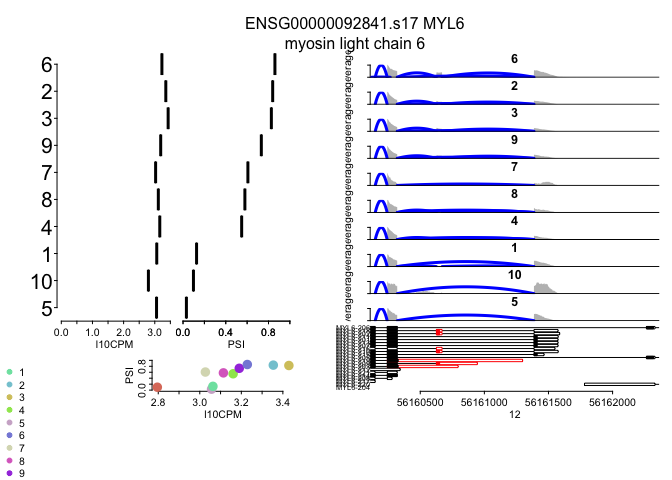
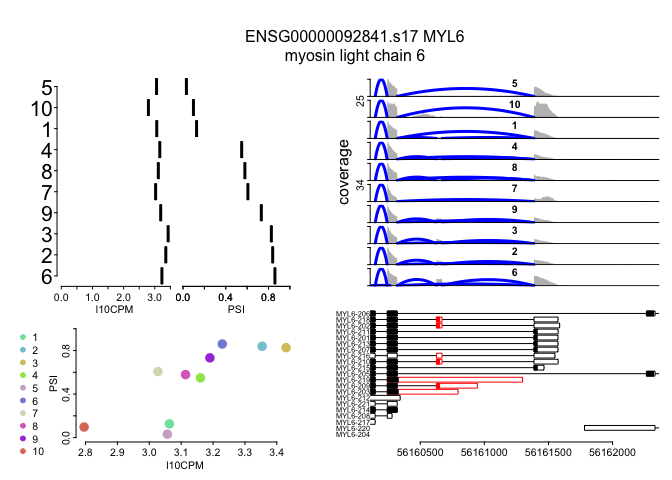
Updated markdown file

diff --git a/tutorial/10x_gbm.md b/tutorial/10x_gbm.md
@@ -594,9 +594,14 @@ SummarizedExperiment::assay(pbge, "cpm") <- scsajr::calc_cpm(pbge)
 ## 4.1 Visualise markers
 
 ``` r
-markers <- scsajr::select_all_markers(pbasf@metadata$markers, pbasf@metadata$all_celltype_test, dpsi_thr = 0.5, n = 4)
-# par(mfrow = c(1, 2), mar = c(3, 6, 1, 6), oma = c(0, 12, 0, 0))
-par(mfrow = c(1, 2), mar = c(2, 4, 1, 4), oma = c(0, 4, 0, 0))
+markers <- scsajr::select_all_markers(
+  pbasf@metadata$markers, pbasf@metadata$all_celltype_test,
+  dpsi_thr = 0.5, n = 4
+)
+
+par(oma = c(0, 14, 0, 2), mar = c(5, 9, 3, 4))
+# par(mar = c(0, 0.5, 0, 0), oma = c(6, 34, 3, 1), xpd = NA)
+
 scsajr::marker_heatmap(
   pbasf, pbge, "celltype",
   psi_scale = FALSE,
@@ -606,16 +611,13 @@ scsajr::marker_heatmap(
 )
 ```
 
-    ## Warning in stats::cor(t(psi), use = "pairwise.complete.obs"): the standard
-    ## deviation is zero
-
     ## Loading required package: randomcoloR
 
 ![](10x_gbm_files/figure-gfm/Visualise%20markers-1.png)<!-- -->
 
 ## 4.2 Coverage plots
 
-\_from pre-saved files we can replot coverage for one of examples
+From pre-saved files, we can replot coverage for one of examples
 generated by the pipeline
 
 ``` r
@@ -636,7 +638,7 @@ scsajr::plot_segment_coverage(
   plot_junc_only_within = FALSE,
   ylim_by_junc = TRUE,
   gtf = gtf,
-  oma = c(4, 4, 4, 1)
+  oma = c(2, 4, 6, 1)
 )
 ```
 
@@ -662,7 +664,7 @@ scsajr::plot_segment_coverage(
   plot_junc_only_within = FALSE,
   ylim_by_junc = TRUE,
   gtf = gtf,
-  oma = c(4, 4, 4, 1)
+  oma = c(2, 4, 6, 1)
 )
 ```
 
@@ -724,24 +726,9 @@ covs <- scsajr::plot_segment_coverage(
   plot_junc_only_within = FALSE,
   ylim_by_junc = TRUE,
   gtf = gtf,
-  oma = c(4, 4, 4, 1)
+  oma = c(2, 4, 6, 1)
 )
 ```
-
-    ## Loading required package: GenomicAlignments
-
-    ## Loading required package: Biostrings
-
-    ## Loading required package: XVector
-
-    ## 
-    ## Attaching package: 'Biostrings'
-
-    ## The following object is masked from 'package:base':
-    ## 
-    ##     strsplit
-
-    ## Loading required package: Rsamtools
 
 ![](10x_gbm_files/figure-gfm/Inspect%20segment%20and%20plot-1.png)<!-- -->
 
